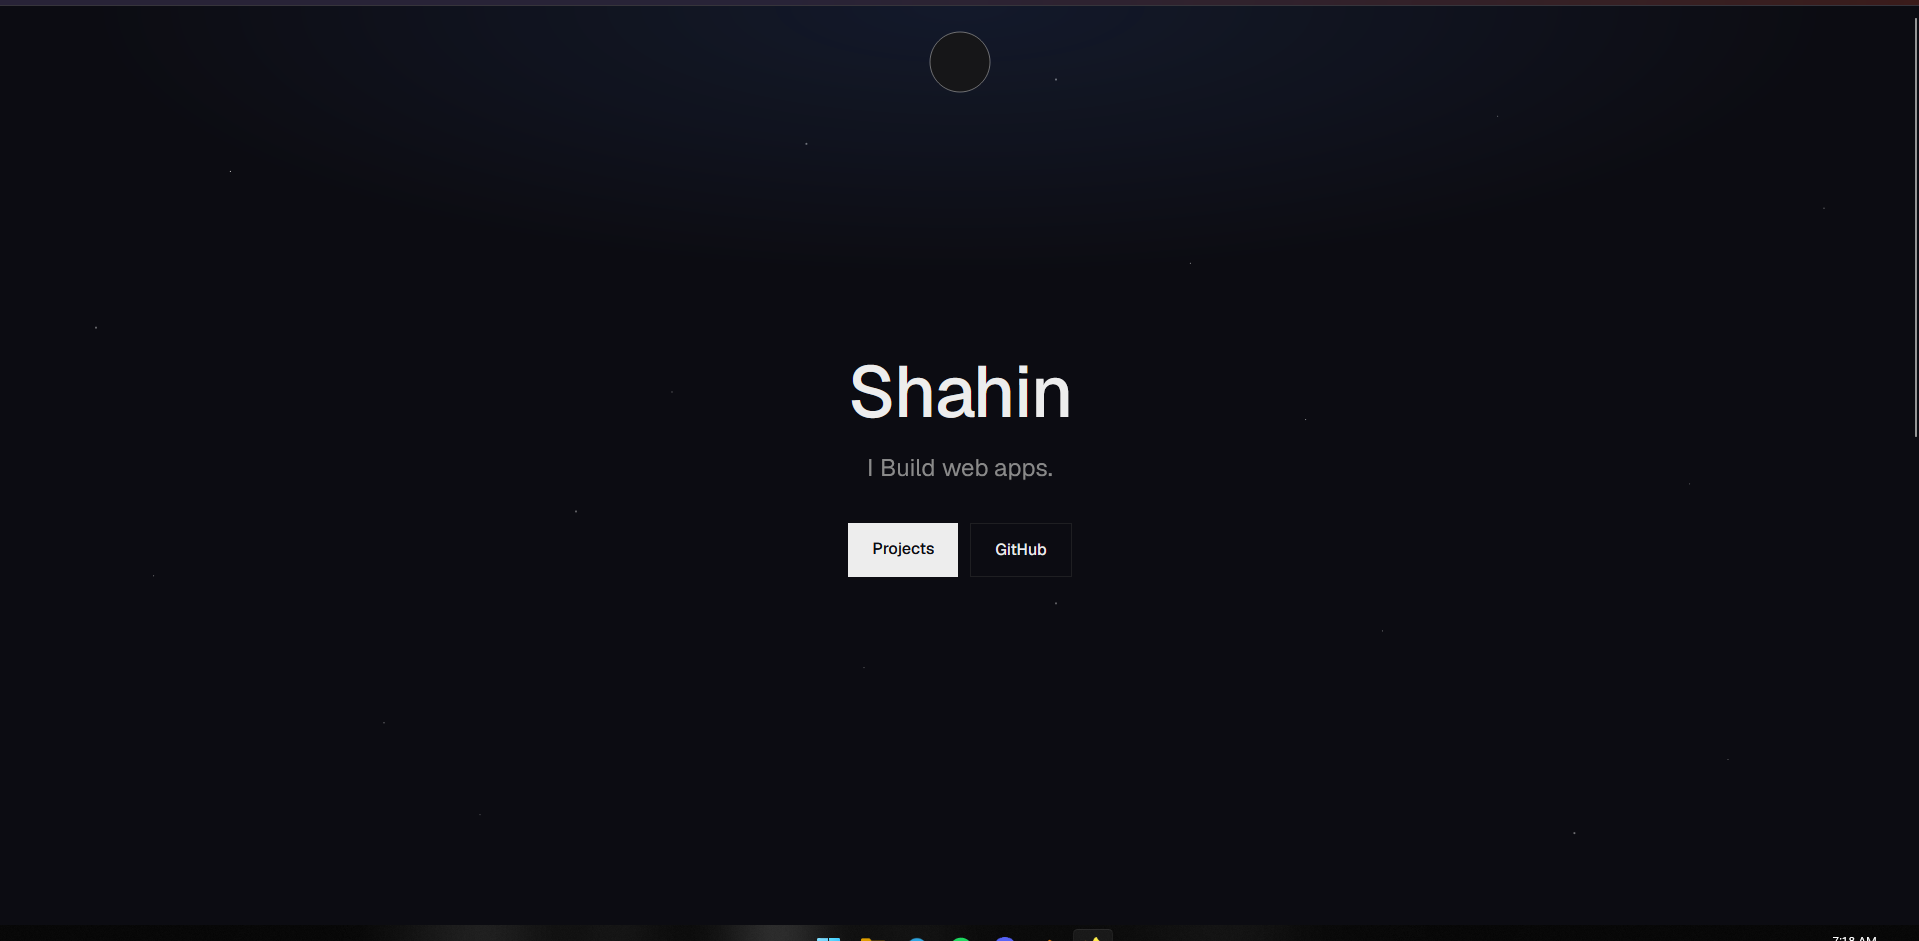
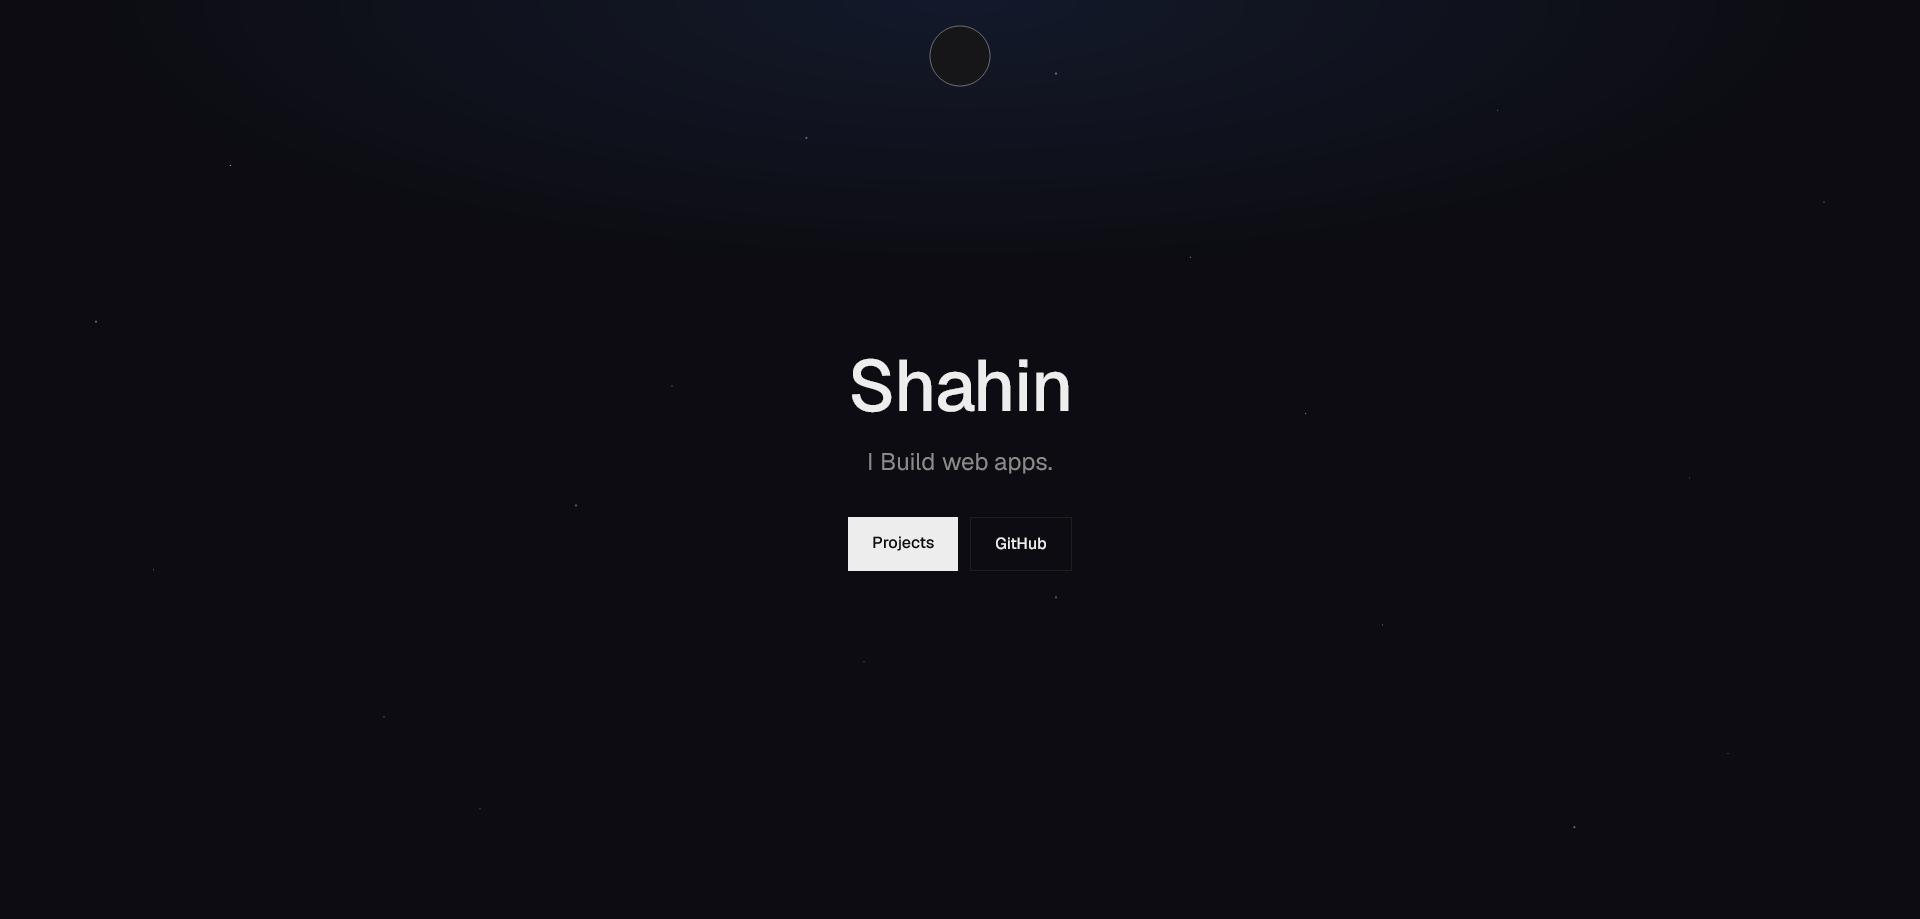
docs: rearranged README, changed screenshots

diff --git a/README.md b/README.md
@@ -4,11 +4,19 @@ Personal portfolio site. Built to feel like its own thing rather than a template
 
 **[Live site](https://shahin-portfolio-dev.vercel.app)**
 
+---
+
 ## Screenshots
 
-| Dark | Light |
-|---|---|
-| ![Dark mode](docs/readme-dark.png) | ![Light mode](docs/readme-light.png) |
+### Dark
+
+![Dark mode](docs/readme-dark.png)
+
+### Light
+
+![Light mode](docs/readme-light.png)
+
+---
 
 ## What's in it
 
@@ -18,12 +26,16 @@ Personal portfolio site. Built to feel like its own thing rather than a template
 - Hover-to-play video preview on project cards
 - Hand-written CSS with a semantic color token system
 
+---
+
 ## Stack
 
 - Next.js 16 (App Router)
 - TypeScript
 - Tailwind CSS v4
 - No UI libraries, no animation libraries
+
+---
 
 ## Run locally
 
